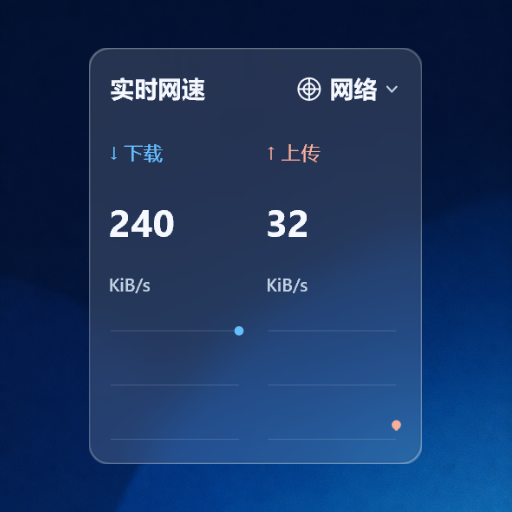
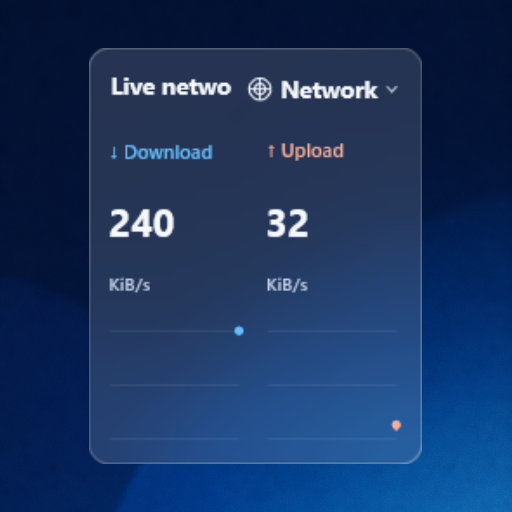
chore(widget): 更新全组件商店预览并强制交付前同步dev / Refresh widget previews and require dev sync before delivery
中文：
- 更新全部22个组件包的商店预览，采用64张真实512x512渲染图：22张英文主图、18张中文默认效果附图及24张尺寸、指标、配色和模式附图。无语言差异的重复图不占用附图名额。
- 清单使用preview和有序previewGallery，单包附图最多7张；补齐内置组件缺失的封面，保留包UUID并递增组件补丁版本。计时器封面使用已确认的4:3默认布局，倒数日保持横向。
- 在组件包规则的现有开发来源同步段落中明确：每轮开发通过必要检查后、交付前必须同步dev并核对UUID、版本及全部文件哈希。保留发布前同步、Manager和CLI必须绑定dev来源及同构建data-directory的要求。
- 本轮11个官方社区包均已通过widget-dev同步到.build/Release/data/widgets/dev，逐文件核对一致；未执行Workshop发布。

English:
- Refresh store previews for all 22 packages with 64 real 512x512 renders: 22 English covers, 18 Chinese default views and 24 size, metric, color and mode images. Omit language-independent duplicate images from galleries.
- Use preview and ordered previewGallery with at most seven additional images per package; add missing built-in covers, preserve UUIDs and increment package patch versions. Use the confirmed 4:3 timer default and retain landscape Days Countdown.
- Update the existing development-source rule to require dev synchronization before every checked development delivery, with UUID, version and full file-hash verification. Preserve mandatory dev source binding for Manager/CLI publication and the matching data-directory.
- Synchronize all 11 official community packages through widget-dev to .build/Release/data/widgets/dev and verify every file; no Workshop publication is performed.

验证 / Validation:
- All 64 selected PNGs visually inspected; all are 512x512 and below 1 MiB, rendered on the verified community-preview-background.png source artwork.
[…]

diff --git a/.agents/rules/widget-packages.md b/.agents/rules/widget-packages.md
@@ -36,13 +36,13 @@
 ## 官方社区组件与 Workshop
 
 - 社区源码不放 `widgets/`、不随应用发行；仅用户明确要求提升为内置时迁入并同步内置契约检查。
-- 先确认目标 `.build/<Configuration>/SnowDesktop.exe` 由当前源码标准构建，再运行：
+- 官方社区组件每轮开发完成并通过必要检查后，交付回复前必须同步到目标构建的 `data/widgets/dev/<slug>/`；此步骤同时适用于源码、manifest、本地化和预览图更新。先确认目标 `.build/<Configuration>/SnowDesktop.exe` 由当前源码标准构建，再运行：
 
   ```bat
   scripts/widget-dev.bat developer_assets/workshop_widgets/<slug> -Configuration <Configuration> -Once
   ```
 
-  镜像到该构建 `data/widgets/dev/<slug>/`。新候选、来源切换或尚未发现目录时，打开组件设置/“添加组件”菜单重扫；旧宿主不支持入口刷新才加 `-RestartHost`。新发现且通过校验的 UUID 默认激活开发来源，保留已保存停用决定及旧注册表现有选择。核对当前来源与权限，再完成交互验收。
+  镜像到该构建 `data/widgets/dev/<slug>/`。同步后核对源与 dev 包的 manifest UUID、版本及全部文件哈希，交付记录目标构建、dev 目录和同步结果；同步受阻时记录具体阻断和下一步，保持待交付状态。新候选、来源切换或尚未发现目录时，打开组件设置/“添加组件”菜单重扫；旧宿主不支持入口刷新才加 `-RestartHost`。新发现且通过校验的 UUID 默认激活开发来源，保留已保存停用决定及旧注册表现有选择。核对当前来源与权限，再完成交互验收。
 - Workshop 发布或更新前先同步 dev 目录；Workshop Manager 项目与 CLI `--source` 均绑定该目录，显式传同构建 `--data-directory`。由 dev 目录生成计划，核对包版本、哈希、预览及现有 PublishedFileId。
 - 曾误绑源码时，把原 PublishedFileId、发布版本、哈希、时间、偏好迁移到 dev 项目，移除重复源码登记；保留 UUID 和工坊条目，不重建条目。
 - 来源切换交付分别核对错误的 `widgets/<slug>` 不存在、目标 `data/widgets/dev/<slug>` 存在、“开发中”入口可见。
